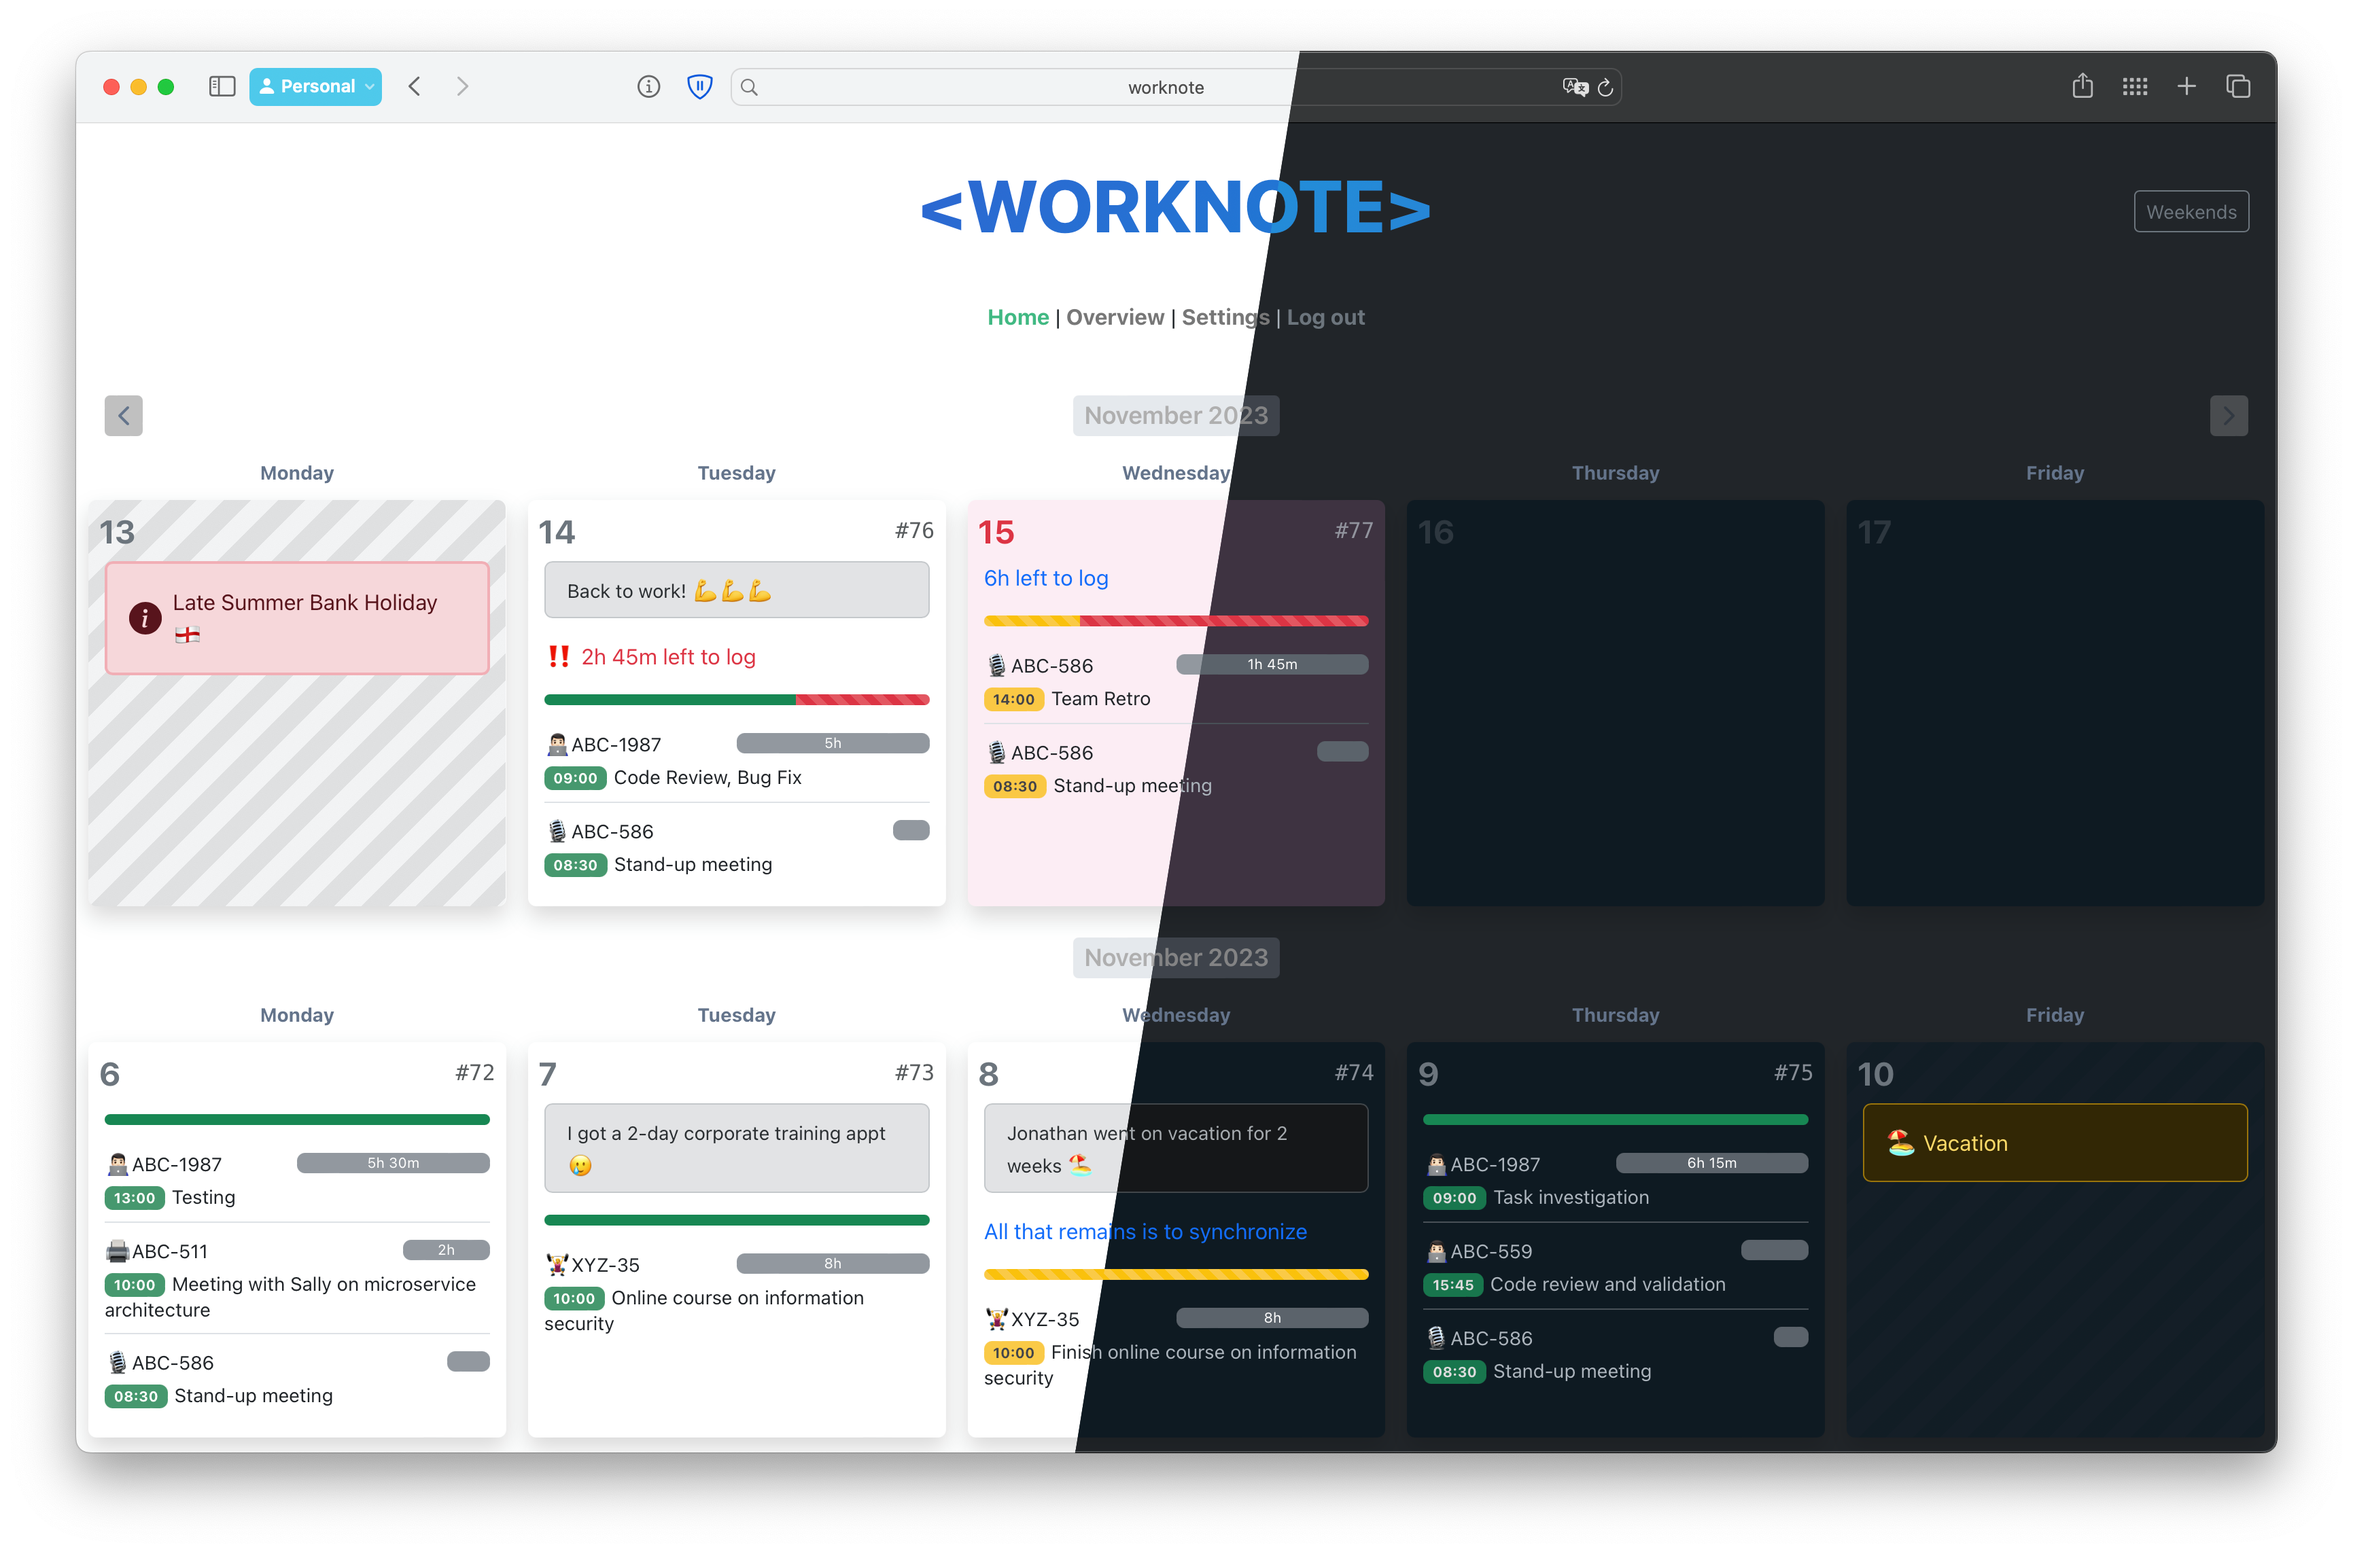
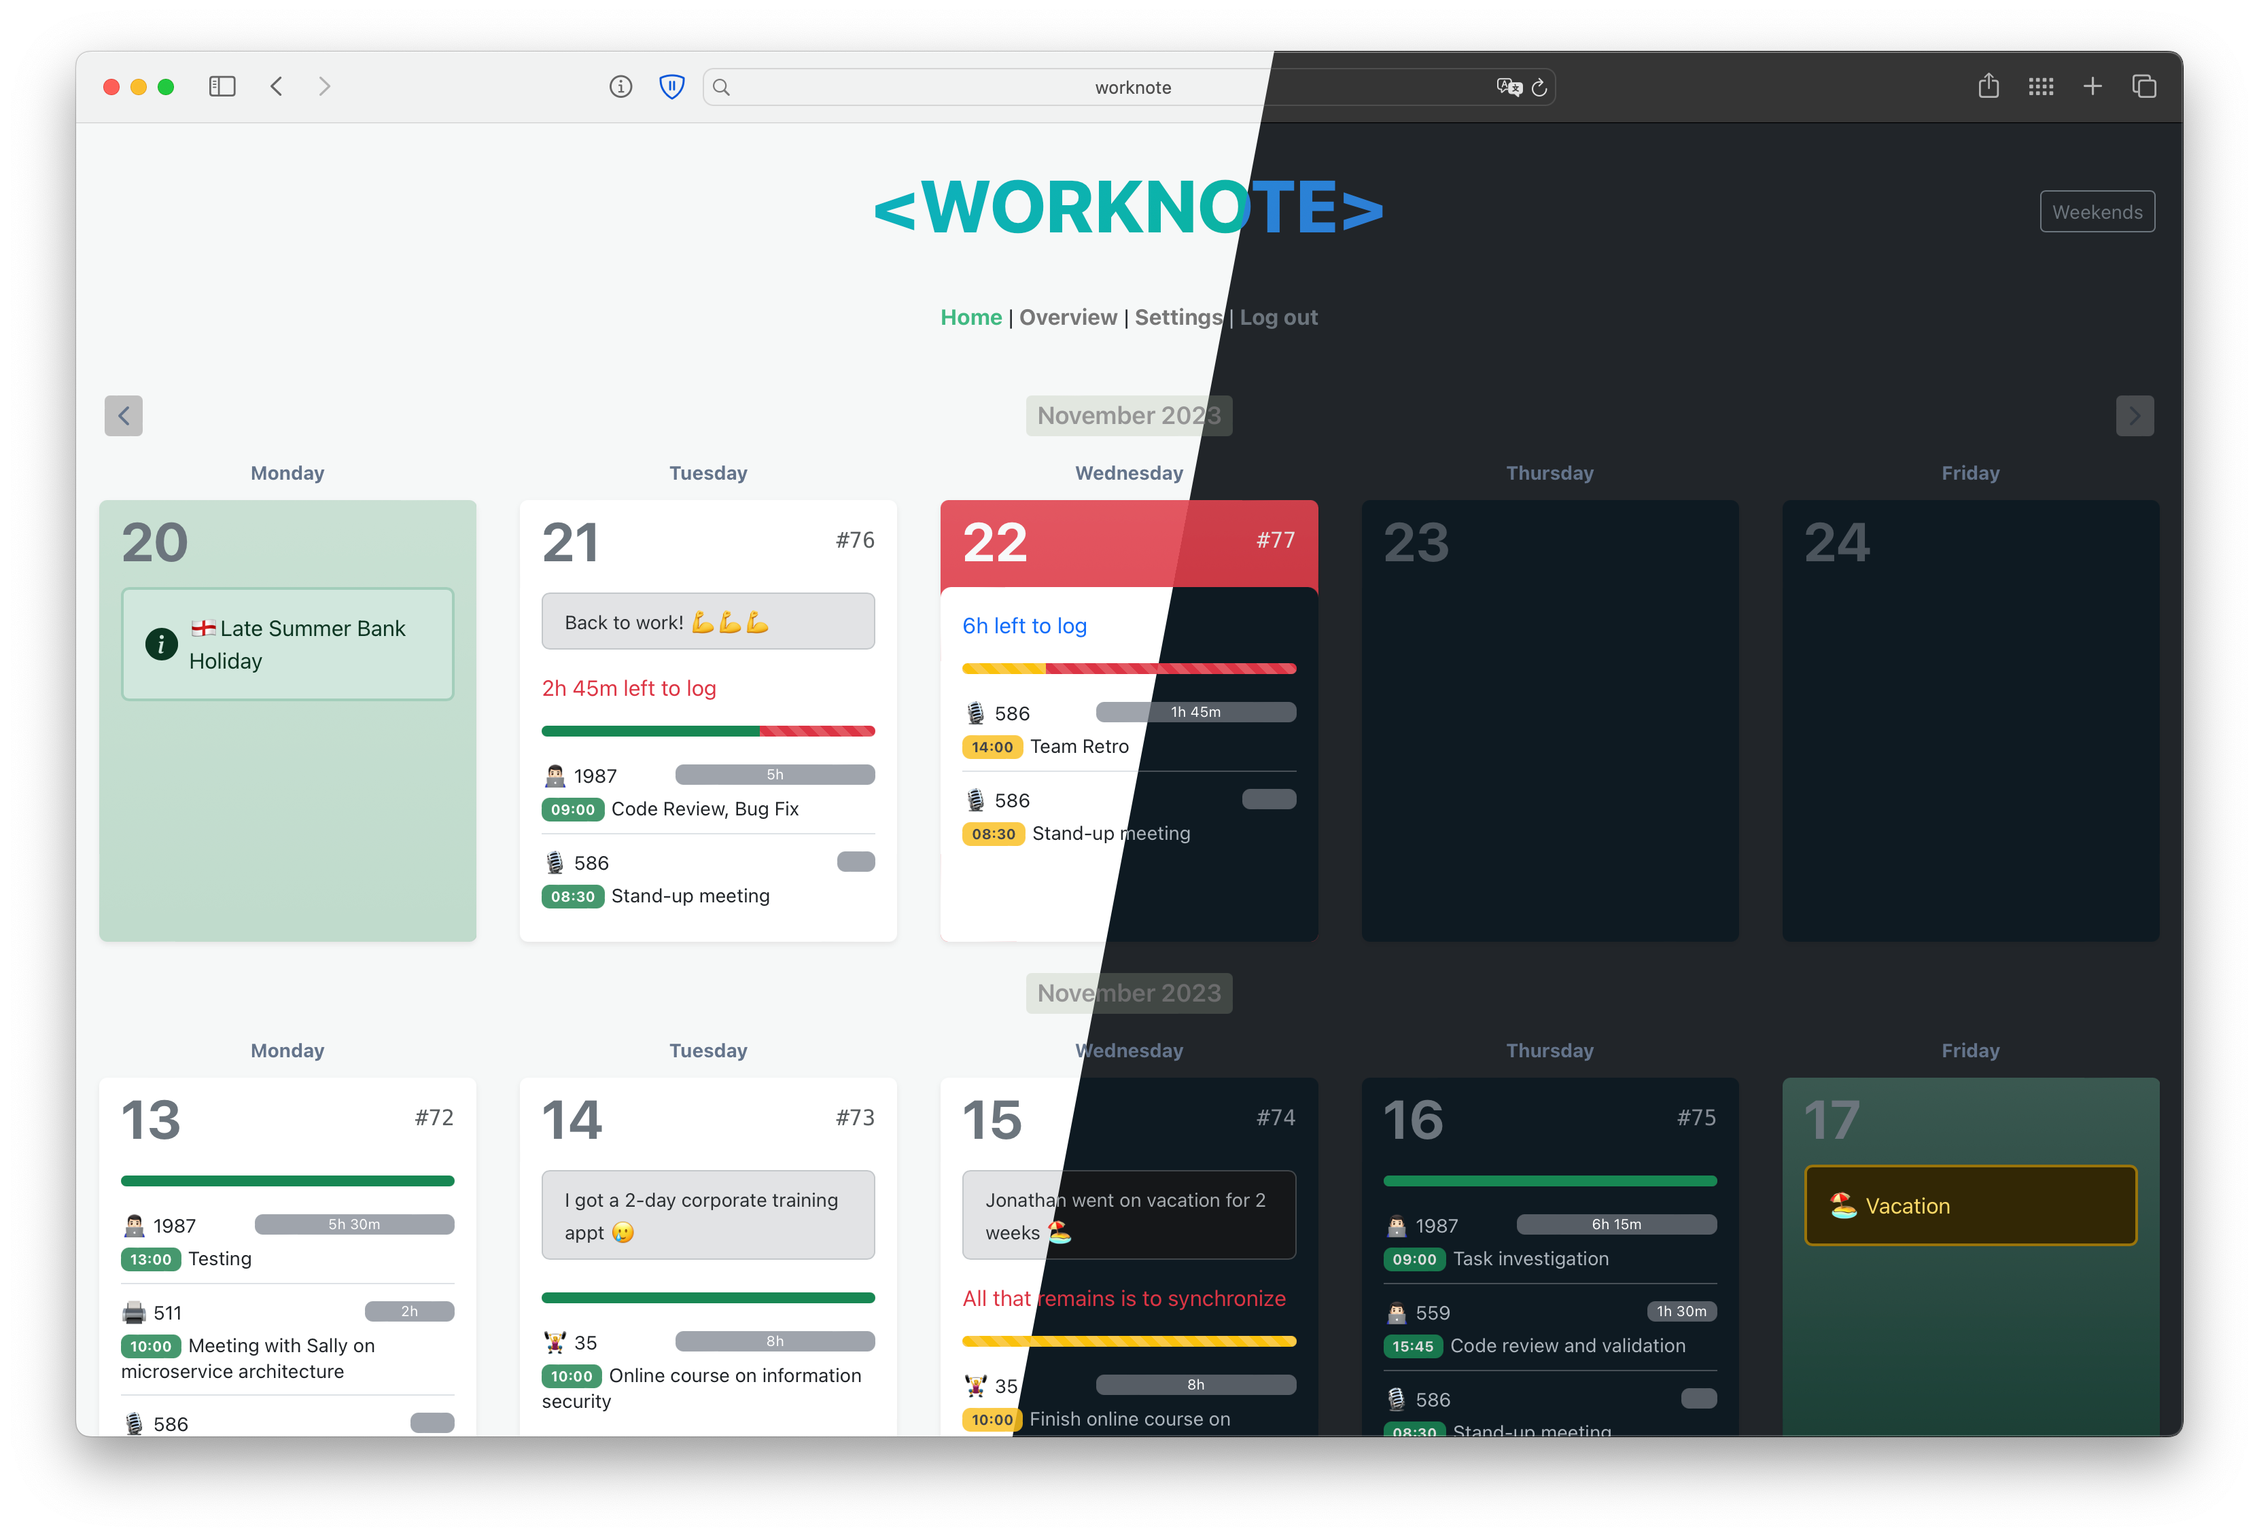
README.md updates; add workflow for pull requests

diff --git a/frontend/src/components/CalendarDay.vue b/frontend/src/components/CalendarDay.vue
@@ -3,7 +3,7 @@
         :class="{ 'bg-gradient bg-danger': day.isToday, 'bg-gradient bg-success': dayInfo.nonWorkingDay, 'opacity-50': !isPastDay }"
         type="button" @click="setActiveDayInfo(day.id)" data-bs-toggle="modal" data-bs-target="#staticBackdrop">
 
-        <div class="flex day-label-header px-1 mb-1">
+        <div class="flex day-label-header mb-1 mx-3">
             <span class="day-label fs-1"
                 :class="{ 'text-secondary': isPastDay && !day.isToday, 'text-muted': !isPastDay, 'text-light': day.isToday }">
                 {{ day.day }}<span v-if="dayInfo.reducedWorkingDay">*</span>
@@ -14,24 +14,27 @@
             </span>
         </div>
 
-        <div class="flex-grow overflow-y-auto overflow-x-auto text-xs leading-tight rounded-sm p-1 mt-0 mb-1">
-            <div v-if="dayInfo.vacation" class="alert alert-warning border-2" role="alert">
-                🏖 {{ $t("calendar.vacation") }}
+        <div class="d-flex flex-column h-100 rounded-3 my-0">
+            <div class="px-3">
+                <div v-if="dayInfo.vacation" class="alert alert-warning border-2" role="alert">
+                    🏖 {{ $t("calendar.vacation") }}
+                </div>
+
+                <div v-if="dayInfo.additionalInfo" class="alert alert-success d-flex align-items-center border-2"
+                    role="alert">
+                    <svg class="bi flex-shrink-0 me-2" width="24" height="24" role="img" aria-label="Info:">
+                        <use xlink:href="#info-fill" />
+                    </svg>
+                    <div>{{ dayInfo.additionalInfo }}</div>
+                </div>
+
+                <div v-if="dayInfo.summary && dayInfo.summary.length > 0" class="alert alert-secondary mt-1 mb-3 py-2 px-3">
+                    <small>{{ dayInfo.summary }}</small>
+                </div>
             </div>
 
-            <div v-if="dayInfo.additionalInfo" class="alert alert-success d-flex align-items-center border-2" role="alert">
-                <svg class="bi flex-shrink-0 me-2" width="24" height="24" role="img" aria-label="Info:">
-                    <use xlink:href="#info-fill" />
-                </svg>
-                <div>{{ dayInfo.additionalInfo }}</div>
-            </div>
-
-            <div v-if="dayInfo.summary && dayInfo.summary.length > 0" class="alert alert-secondary mb-3 py-2 px-3">
-                <small>{{ dayInfo.summary }}</small>
-            </div>
-
-            <div v-if="isPastDay && !dayInfo.vacation && dayInfo.workingMinutes > 0"
-                :class="{ 'vc-day-body bg-body px-3 py-2 border border-danger border-2 rounded': day.isToday }">
+            <div v-if="isPastDay && !dayInfo.vacation && dayInfo.workingMinutes > 0" class="px-3 pb-3"
+                :class="{ 'vc-day-body bg-body rounded-3 h-100 pt-3': day.isToday }">
                 <progress-bar :synchronized="durationOfSynced" :loggedHereOnly="durationOfLoggedOnly"
                     :total="dayInfo.workingMinutes" :isPast="isPastDay" :isToday="day.isToday" />
 

diff --git a/frontend/src/components/WorklogList.vue b/frontend/src/components/WorklogList.vue
@@ -12,7 +12,7 @@
                         :title="formatTime(worklog.durationInMinutes)">
                         <div class="progress-bar bg-secondary w-100" role="progressbar"
                             :aria-valuenow="progressBarWidths[worklog.id]">
-                            <small v-if="progressBarWidths[worklog.id] > 35">
+                            <small v-if="progressBarWidths[worklog.id] > 30">
                                 {{ formatTime(worklog.durationInMinutes) }}
                             </small>
                         </div>
@@ -102,6 +102,6 @@ export default defineComponent({
 }
 
 .progress-bar.bg-secondary {
-    --bs-bg-opacity: 0.7;
+    --bs-bg-opacity: 0.6;
 }
 </style>

diff --git a/frontend/src/components/ProgressBar.vue b/frontend/src/components/ProgressBar.vue
@@ -1,6 +1,5 @@
 <template>
     <p v-if="minutesRemain > 0" :class="{ 'text-primary': isToday || !isPast, 'text-danger': isPast && !isToday }">
-        <span v-if="isPast && !isToday">‼ </span>
         <span>{{ helpText }}</span>
     </p>
     <p v-if="minutesRemain == 0 && synchronized != total && exceedPercent == 0"

diff --git a/frontend/src/views/CalendarView.vue b/frontend/src/views/CalendarView.vue
@@ -244,7 +244,6 @@ export default defineComponent({
   }
 
   & .day-core {
-    padding: 5px 8px;
     height: 100%;
   }
 }

diff --git a/README.md b/README.md
@@ -50,7 +50,7 @@ that require time allocation.
 
 ## 🏗 Installation
 
-To install Worknote, follow these steps:
+To install **Worknote**, follow these steps:
 
 1. Clone the repository: `git clone https://github.com/e1sordo/worknote`
 2. Navigate to the project directory: `cd worknote`
@@ -58,7 +58,7 @@ To install Worknote, follow these steps:
 
 ## 🎮 Usage
 
-To use Worknote, follow these steps:
+To use **Worknote**, follow these steps:
 
 1. Ensure you have completed the installation steps.
 2. Set required environment variables `export ENV_VAR_NAME=value`
@@ -72,12 +72,26 @@ To use Worknote, follow these steps:
 
 ## 🎛 Configuration
 
-Before using Worknote, you must configure it by providing the necessary credentials and settings
+Before using **Worknote**, you must configure it by providing the necessary credentials and settings
 in the appropriate section of the application.
+
+## 🚪 CORS problem!
+
+This application can be used in two scenarios:
+1) Deploy it on your local machine and have access to **Worknote** only from there.
+2) Or deploy it on a remote server and have access to **Worknote** from any device.
+
+However, in the second scenario, you may encounter an issue with the corporate Jira server, 
+which is located in the company's private network. 
+In this case, you won't be able to make requests to Jira from outside your internal network.
+
+To overcome this problem, you can use a special [CORS proxy service](cors-proxy-service) located at the root of this repository. 
+It runs as a regular OS-service on your machine with access to Jira and proxies any request from **Worknote** to Jira 
+by bypassing the CORS protection.
 
 ## 🤝 Contributing
 
-Contributions are welcome! If you'd like to contribute to the Worklog Sync with Jira project, please follow these
+Contributions are welcome! If you'd like to contribute to **Worknote** project, please follow these
 guidelines:
 
 1. Fork the repository.
@@ -88,7 +102,7 @@ guidelines:
 
 ## 🕊 License
 
-The Worklog Sync with Jira project is licensed under the [MIT License](https://opensource.org/licenses/MIT). Feel free
+**Worknote** is licensed under the [MIT License](https://opensource.org/licenses/MIT). Feel free
 to use, modify, and distribute the software according to the terms of this license.
 
 ## 📺 Screenshots
